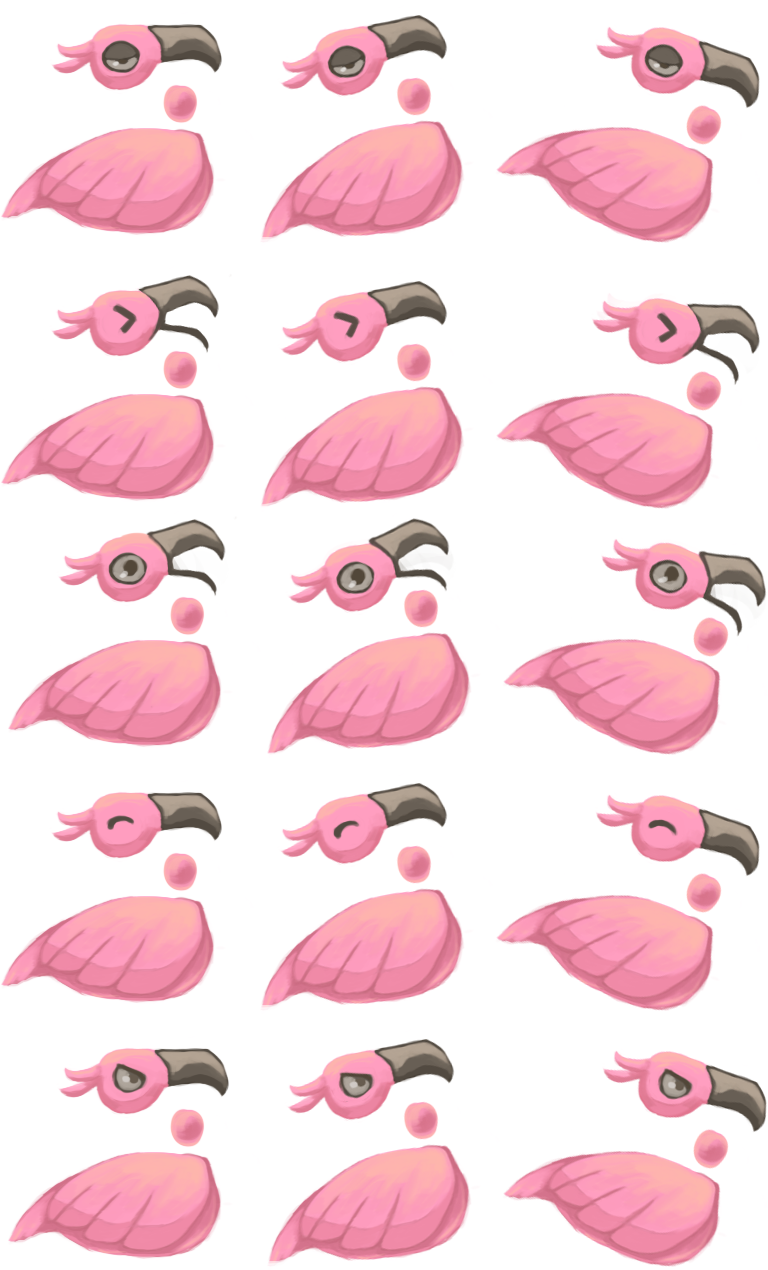
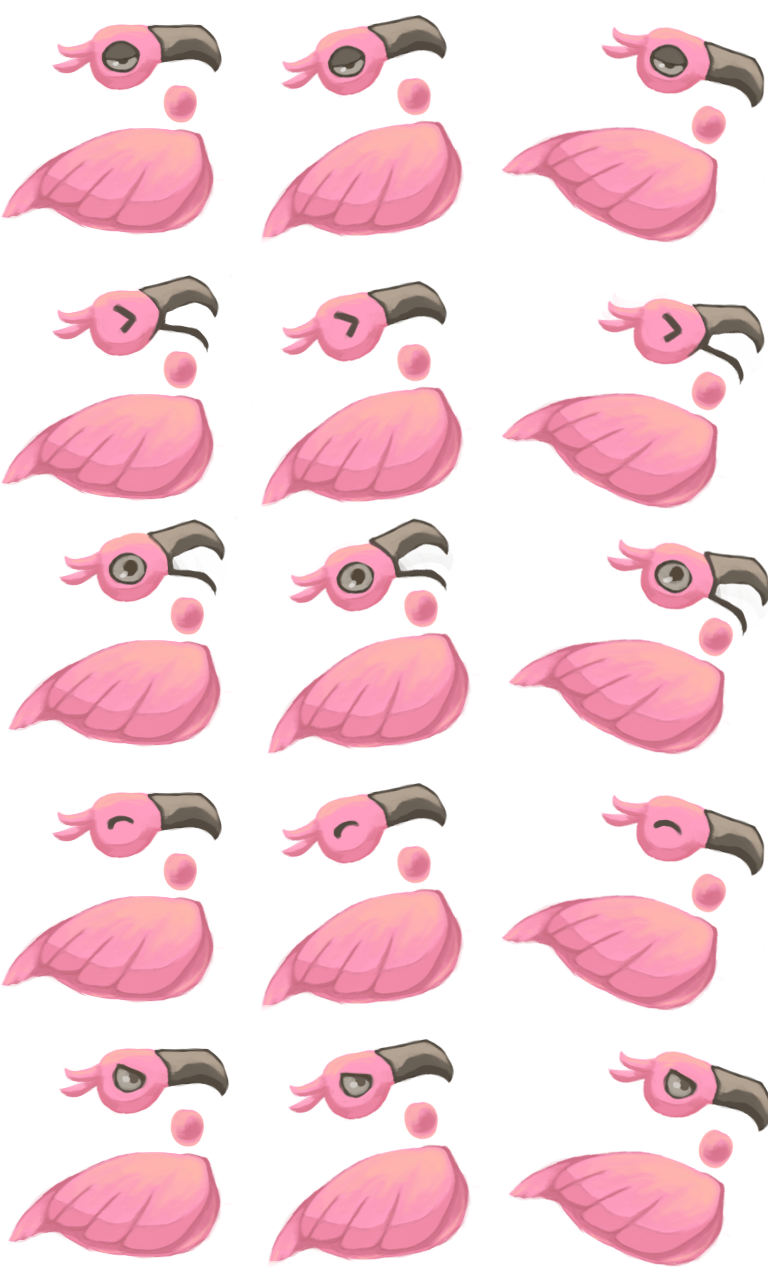
Flamingo head has now animation

diff --git a/Flamingo/Flamingo/Source/flamingo.cpp b/Flamingo/Flamingo/Source/flamingo.cpp
@@ -28,11 +28,14 @@ flamingo::flamingo(sf::RenderWindow *Window, soundLibrary* SoundLibrary, collisi
 	m_flamingoBody.setScale(0.5f, 0.5f);
 
 	////////////HEAD///////////
-	m_headTexture = new texture("Flamingo_player_head.png");
+	m_headTexture = new texture("Flamingo_player_head_Animation.png");
 	m_flamingoHead.setTexture(m_headTexture);
 	m_flamingoHead.setPosition(m_headOrigin);
 	m_flamingoHead.setOrigin(vector(120, 70));
 	m_flamingoHead.setScale(0.5f, 0.5f);
+
+	m_headAnimation = new animation(&m_flamingoHead, 6, 200, 143, false);
+	m_headAnimation->ChangeAnimation(0, 1, 0, 20);
 
 	m_crossTexture = new texture("crosshair.png");	
 	m_crosshairSprite.setTexture(m_crossTexture);
@@ -95,6 +98,7 @@ void flamingo::update(float DeltaTime)
 			{
 				m_drag = 1;
 				m_soundLibrary->m_sounds[1]->play();
+				m_headAnimation->ChangeAnimation(1,1,1,15);
 			}
 
 			break;
@@ -104,8 +108,6 @@ void flamingo::update(float DeltaTime)
 			m_mousePosition.y = sf::Mouse::getPosition(*window).y;
 
 			m_headPosition = m_mousePosition;
-
-			
 
 			{
 				sf::Vector2f Direction(m_headOrigin - m_headPosition);
@@ -138,6 +140,7 @@ void flamingo::update(float DeltaTime)
 			{
 				m_drag = 2;
 				m_soundLibrary->m_sounds[0]->play();
+				m_headAnimation->ChangeAnimation(2,1,2,15);
 			}
 
 			break;
@@ -157,6 +160,9 @@ void flamingo::update(float DeltaTime)
 			{
 				m_drag = 3;
 			}
+
+
+
 			break;
 		case 3: //head goes back to starting point/origin
 			{
@@ -170,6 +176,7 @@ void flamingo::update(float DeltaTime)
 			{
 				m_drag = 0;
 				m_crossHair = m_headOrigin;
+				m_headAnimation->ChangeAnimation(0, 1, 0, 20);
 			}
 			break;
 	}
@@ -207,6 +214,8 @@ void flamingo::update(float DeltaTime)
 	m_flamingoHead.setPosition(m_headPosition);
 	m_crosshairSprite.setPosition(m_crossHair);
 	m_headHitbox->Position = m_headPosition;
+
+	m_headAnimation->update(DeltaTime);
 }
 
 void flamingo::draw(al::viewport* Viewport)

diff --git a/Flamingo/Flamingo/Source/nest.cpp b/Flamingo/Flamingo/Source/nest.cpp
@@ -31,7 +31,7 @@ nest::nest(sf::RenderWindow *Window, collision* Collide)
 	m_hatchlingPositions.push_back( sf::Vector2f(m_nestPosition.x - 60, m_nestPosition.y - 30));
 	m_hatchlingPositions.push_back( sf::Vector2f(m_nestPosition.x + 60, m_nestPosition.y - 30));
 
-	m_hatchlingTexture = new texture("Hatchling_sheet.png");
+	m_hatchlingTexture = new texture("Hatchling_sheet_v2.png");
 
 	for (int i = 0; i < 3; ++i)
 	{

diff --git a/Flamingo/Flamingo/Include/flamingo.h b/Flamingo/Flamingo/Include/flamingo.h
@@ -7,6 +7,7 @@
 #include "hitbox.h"
 #include "program.h"
 #include "sound.h"
+#include "animation.h"
 
 class neckPiece
 {
@@ -17,6 +18,8 @@ public:
 	al::sprite m_sprite;
 
 	sf::Vector2f m_positionMultiplier, m_positionRelative;
+
+	
 	
 };
 
@@ -28,6 +31,8 @@ class flamingo
 	~flamingo();
 	void update(float DeltaTime);
 	void draw(al::viewport* Viewport);
+	
+	animation *m_headAnimation;
 
 	private:
 

diff --git a/Flamingo/Flamingo/Source/game.cpp b/Flamingo/Flamingo/Source/game.cpp
@@ -184,7 +184,6 @@ void game::update(float deltaTime)
 			m_gui->m_pause = false;
 		}
 		
-
 		break;
 	case Credits:
 		break;
@@ -193,9 +192,6 @@ void game::update(float deltaTime)
 	case Gamemenu:
 		m_gui->m_Gmenu = true;
 		m_gui->update(deltaTime);
-
-
-		
 		break;
 	}
 

diff --git a/Flamingo/Flamingo/Source/enemy.cpp b/Flamingo/Flamingo/Source/enemy.cpp
@@ -50,6 +50,5 @@ void enemy::update(float DeltaTime)
 
 void enemy::draw(al::viewport* Viewport)
 {
-	//window->draw(*m_enemyBird);
 	Viewport->draw(m_sprite);
 }
